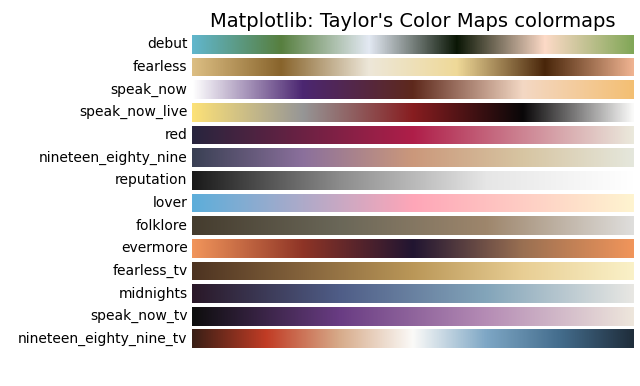
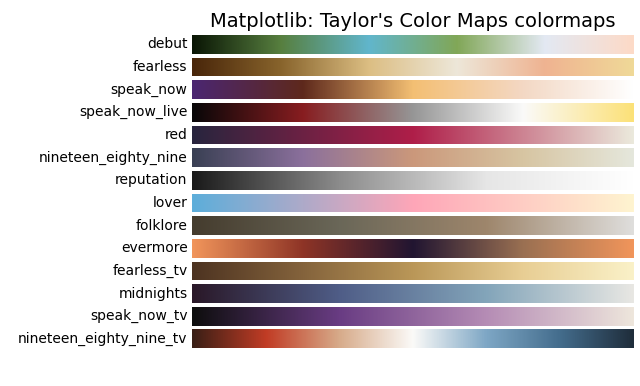
Sorting tayloRswift maps produces better results

Changed region(s): [[0.2812, 0.0933, 1.0, 0.342]]

diff --git a/swiftascmaps/colors.py b/swiftascmaps/colors.py
@@ -4,39 +4,39 @@ Colors (defined as RGB values) for the Taylor Swift albums.
 
 from swiftascmaps.make_cmap import hex_to_rgb
 
-debut = hex_to_rgb([
+debut = hex_to_rgb(sorted([
     "#61b6cc",
     "#577f3f",
     "#e3e9f3",
     "#0a1605",
     "#fddac7",
     "#81a757"
-])
+]))
 
-fearless = hex_to_rgb([
+fearless = hex_to_rgb(sorted([
     "#DCBE83",
     "#88642C",
     "#EDE7D9",
     "#EFD998",
     "#49260A",
     "#EFB391"
-])
+]))
 
-speak_now = hex_to_rgb([
+speak_now = hex_to_rgb(sorted([
     "#ffffff",
     "#4b2671",
     "#5e291c",
     "#f3d8c4",
     "#f3bf73"
-])
+]))
 
-speak_now_live = hex_to_rgb([
+speak_now_live = hex_to_rgb(sorted([
     "#fce178",
     "#969696",
     "#871d20",
     "#090708",
     "#fafaf9"
-])
+]))
 
 red = [
     [40, 37, 62],
@@ -132,3 +132,16 @@ speak_now_tv = hex_to_rgb(
 nineteen_eighty_nine_tv = hex_to_rgb(
     ["#3A1F16", "#C13C25", "#D7AB8A", "#FBFAF8", "#7EA7C5", "#446D8D", "#1F2D3B"]
 )
+
+nineteen_eighty_nine_tv_sunrise_boulevard = hex_to_rgb(sorted(
+    ["#2B3849", "#6C1414", "#C8AA86", "#D0C9B9", "#888D50", "#313C40"]
+))
+
+nineteen_eighty_nine_tv_aquamarine_green = hex_to_rgb(sorted(
+["#101C18", "#C19298", "#5B96A5", "#90A5A8", "#9A241F", "#938C7C"]
+))
+
+nineteen_eighty_nine_tv_rose_garden_pink = hex_to_rgb(sorted(
+    ["#8A9DAC", "#9E948A","#DD8253", "#B4AEAF", "#B6723C", "#7F8491"]
+))
+
